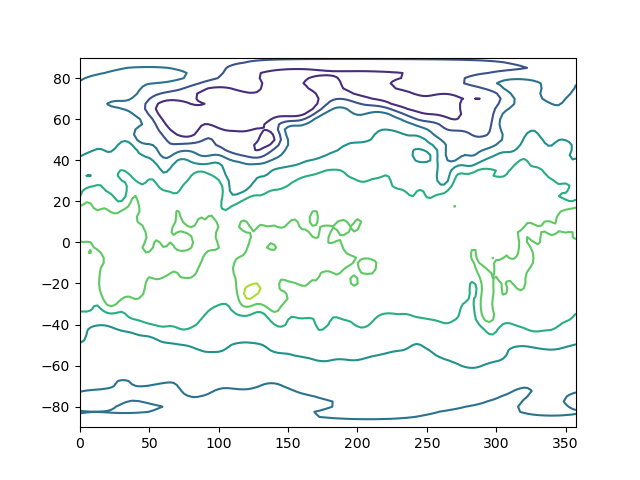
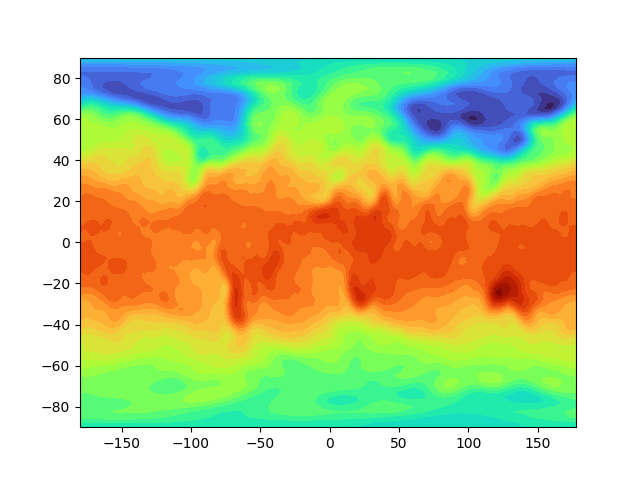
almost done p4

diff --git a/P4/p4_rubiomadrigalcelia.py b/P4/p4_rubiomadrigalcelia.py
@@ -16,31 +16,63 @@ Referencias:
     
 """
 
+import math
 import datetime as dt  # Python standard library datetime  module
 import numpy as np
 import matplotlib.pyplot as plt
 from netCDF4 import Dataset
 from sklearn.decomposition import PCA
 
+LEV = 30
+import matplotlib.cm
+from matplotlib.colors import ListedColormap
+turbo_colormap_data = [[0.18995,0.07176,0.23217],[0.19483,0.08339,0.26149],[0.19956,0.09498,0.29024],[0.20415,0.10652,0.31844],[0.20860,0.11802,0.34607],[0.21291,0.12947,0.37314],[0.21708,0.14087,0.39964],[0.22111,0.15223,0.42558],[0.22500,0.16354,0.45096],[0.22875,0.17481,0.47578],[0.23236,0.18603,0.50004],[0.23582,0.19720,0.52373],[0.23915,0.20833,0.54686],[0.24234,0.21941,0.56942],[0.24539,0.23044,0.59142],[0.24830,0.24143,0.61286],[0.25107,0.25237,0.63374],[0.25369,0.26327,0.65406],[0.25618,0.27412,0.67381],[0.25853,0.28492,0.69300],[0.26074,0.29568,0.71162],[0.26280,0.30639,0.72968],[0.26473,0.31706,0.74718],[0.26652,0.32768,0.76412],[0.26816,0.33825,0.78050],[0.26967,0.34878,0.79631],[0.27103,0.35926,0.81156],[0.27226,0.36970,0.82624],[0.27334,0.38008,0.84037],[0.27429,0.39043,0.85393],[0.27509,0.40072,0.86692],[0.27576,0.41097,0.87936],[0.27628,0.42118,0.89123],[0.27667,0.43134,0.90254],[0.27691,0.44145,0.91328],[0.27701,0.45152,0.92347],[0.27698,0.46153,0.93309],[0.27680,0.47151,0.94214],[0.27648,0.48144,0.95064],[0.27603,0.49132,0.95857],[0.27543,0.50115,0.96594],[0.27469,0.51094,0.97275],[0.27381,0.52069,0.97899],[0.27273,0.53040,0.98461],[0.27106,0.54015,0.98930],[0.26878,0.54995,0.99303],[0.26592,0.55979,0.99583],[0.26252,0.56967,0.99773],[0.25862,0.57958,0.99876],[0.25425,0.58950,0.99896],[0.24946,0.59943,0.99835],[0.24427,0.60937,0.99697],[0.23874,0.61931,0.99485],[0.23288,0.62923,0.99202],[0.22676,0.63913,0.98851],[0.22039,0.64901,0.98436],[0.21382,0.65886,0.97959],[0.20708,0.66866,0.97423],[0.20021,0.67842,0.96833],[0.19326,0.68812,0.96190],[0.18625,0.69775,0.95498],[0.17923,0.70732,0.94761],[0.17223,0.71680,0.93981],[0.16529,0.72620,0.93161],[0.15844,0.73551,0.92305],[0.15173,0.74472,0.91416],[0.14519,0.75381,0.90496],[0.13886,0.76279,0.89550],[0.13278,0.77165,0.88580],[0.12698,0.78037,0.87590],[0.12151,0.78896,0.86581],[0.11639,0.79740,0.85559],[0.11167,0.80569,0.84525],[0.10738,0.81381,0.83484],[0.10357,0.82177,0.82437],[0.10026,0.82955,0.81389],[0.09750,0.83714,0.80342],[0.09532,0.84455,0.79299],[0.09377,0.85175,0.78264],[0.09287,0.85875,0.77240],[0.09267,0.86554,0.76230],[0.09320,0.87211,0.75237],[0.09451,0.87844,0.74265],[0.09662,0.88454,0.73316],[0.09958,0.89040,0.72393],[0.10342,0.89600,0.71500],[0.10815,0.90142,0.70599],[0.11374,0.90673,0.69651],[0.12014,0.91193,0.68660],[0.12733,0.91701,0.67627],[0.13526,0.92197,0.66556],[0.14391,0.92680,0.65448],[0.15323,0.93151,0.64308],[0.16319,0.93609,0.63137],[0.17377,0.94053,0.61938],[0.18491,0.94484,0.60713],[0.19659,0.94901,0.59466],[0.20877,0.95304,0.58199],[0.22142,0.95692,0.56914],[0.23449,0.96065,0.55614],[0.24797,0.96423,0.54303],[0.26180,0.96765,0.52981],[0.27597,0.97092,0.51653],[0.29042,0.97403,0.50321],[0.30513,0.97697,0.48987],[0.32006,0.97974,0.47654],[0.33517,0.98234,0.46325],[0.35043,0.98477,0.45002],[0.36581,0.98702,0.43688],[0.38127,0.98909,0.42386],[0.39678,0.99098,0.41098],[0.41229,0.99268,0.39826],[0.42778,0.99419,0.38575],[0.44321,0.99551,0.37345],[0.45854,0.99663,0.36140],[0.47375,0.99755,0.34963],[0.48879,0.99828,0.33816],[0.50362,0.99879,0.32701],[0.51822,0.99910,0.31622],[0.53255,0.99919,0.30581],[0.54658,0.99907,0.29581],[0.56026,0.99873,0.28623],[0.57357,0.99817,0.27712],[0.58646,0.99739,0.26849],[0.59891,0.99638,0.26038],[0.61088,0.99514,0.25280],[0.62233,0.99366,0.24579],[0.63323,0.99195,0.23937],[0.64362,0.98999,0.23356],[0.65394,0.98775,0.22835],[0.66428,0.98524,0.22370],[0.67462,0.98246,0.21960],[0.68494,0.97941,0.21602],[0.69525,0.97610,0.21294],[0.70553,0.97255,0.21032],[0.71577,0.96875,0.20815],[0.72596,0.96470,0.20640],[0.73610,0.96043,0.20504],[0.74617,0.95593,0.20406],[0.75617,0.95121,0.20343],[0.76608,0.94627,0.20311],[0.77591,0.94113,0.20310],[0.78563,0.93579,0.20336],[0.79524,0.93025,0.20386],[0.80473,0.92452,0.20459],[0.81410,0.91861,0.20552],[0.82333,0.91253,0.20663],[0.83241,0.90627,0.20788],[0.84133,0.89986,0.20926],[0.85010,0.89328,0.21074],[0.85868,0.88655,0.21230],[0.86709,0.87968,0.21391],[0.87530,0.87267,0.21555],[0.88331,0.86553,0.21719],[0.89112,0.85826,0.21880],[0.89870,0.85087,0.22038],[0.90605,0.84337,0.22188],[0.91317,0.83576,0.22328],[0.92004,0.82806,0.22456],[0.92666,0.82025,0.22570],[0.93301,0.81236,0.22667],[0.93909,0.80439,0.22744],[0.94489,0.79634,0.22800],[0.95039,0.78823,0.22831],[0.95560,0.78005,0.22836],[0.96049,0.77181,0.22811],[0.96507,0.76352,0.22754],[0.96931,0.75519,0.22663],[0.97323,0.74682,0.22536],[0.97679,0.73842,0.22369],[0.98000,0.73000,0.22161],[0.98289,0.72140,0.21918],[0.98549,0.71250,0.21650],[0.98781,0.70330,0.21358],[0.98986,0.69382,0.21043],[0.99163,0.68408,0.20706],[0.99314,0.67408,0.20348],[0.99438,0.66386,0.19971],[0.99535,0.65341,0.19577],[0.99607,0.64277,0.19165],[0.99654,0.63193,0.18738],[0.99675,0.62093,0.18297],[0.99672,0.60977,0.17842],[0.99644,0.59846,0.17376],[0.99593,0.58703,0.16899],[0.99517,0.57549,0.16412],[0.99419,0.56386,0.15918],[0.99297,0.55214,0.15417],[0.99153,0.54036,0.14910],[0.98987,0.52854,0.14398],[0.98799,0.51667,0.13883],[0.98590,0.50479,0.13367],[0.98360,0.49291,0.12849],[0.98108,0.48104,0.12332],[0.97837,0.46920,0.11817],[0.97545,0.45740,0.11305],[0.97234,0.44565,0.10797],[0.96904,0.43399,0.10294],[0.96555,0.42241,0.09798],[0.96187,0.41093,0.09310],[0.95801,0.39958,0.08831],[0.95398,0.38836,0.08362],[0.94977,0.37729,0.07905],[0.94538,0.36638,0.07461],[0.94084,0.35566,0.07031],[0.93612,0.34513,0.06616],[0.93125,0.33482,0.06218],[0.92623,0.32473,0.05837],[0.92105,0.31489,0.05475],[0.91572,0.30530,0.05134],[0.91024,0.29599,0.04814],[0.90463,0.28696,0.04516],[0.89888,0.27824,0.04243],[0.89298,0.26981,0.03993],[0.88691,0.26152,0.03753],[0.88066,0.25334,0.03521],[0.87422,0.24526,0.03297],[0.86760,0.23730,0.03082],[0.86079,0.22945,0.02875],[0.85380,0.22170,0.02677],[0.84662,0.21407,0.02487],[0.83926,0.20654,0.02305],[0.83172,0.19912,0.02131],[0.82399,0.19182,0.01966],[0.81608,0.18462,0.01809],[0.80799,0.17753,0.01660],[0.79971,0.17055,0.01520],[0.79125,0.16368,0.01387],[0.78260,0.15693,0.01264],[0.77377,0.15028,0.01148],[0.76476,0.14374,0.01041],[0.75556,0.13731,0.00942],[0.74617,0.13098,0.00851],[0.73661,0.12477,0.00769],[0.72686,0.11867,0.00695],[0.71692,0.11268,0.00629],[0.70680,0.10680,0.00571],[0.69650,0.10102,0.00522],[0.68602,0.09536,0.00481],[0.67535,0.08980,0.00449],[0.66449,0.08436,0.00424],[0.65345,0.07902,0.00408],[0.64223,0.07380,0.00401],[0.63082,0.06868,0.00401],[0.61923,0.06367,0.00410],[0.60746,0.05878,0.00427],[0.59550,0.05399,0.00453],[0.58336,0.04931,0.00486],[0.57103,0.04474,0.00529],[0.55852,0.04028,0.00579],[0.54583,0.03593,0.00638],[0.53295,0.03169,0.00705],[0.51989,0.02756,0.00780],[0.50664,0.02354,0.00863],[0.49321,0.01963,0.00955],[0.47960,0.01583,0.01055]]
+matplotlib.cm.register_cmap('turbo', cmap=ListedColormap(turbo_colormap_data))
+CMAP = "turbo"
+
+
 f = Dataset("air.2021.nc", "r", format="NETCDF4")
-level = f.variables['level'][:].copy()
-lats = f.variables['lat'][:].copy()
-lons = f.variables['lon'][:].copy()
-air21 = f.variables['air'][:].copy()
+level = f.variables["level"][:].copy()
+lats = f.variables["lat"][:].copy()
+lons = f.variables["lon"][:].copy()
+air21 = f.variables["air"][:].copy()
 f.close()
 f = Dataset("hgt.2021.nc", "r", format="NETCDF4")
-time21 = f.variables['time'][:].copy()
-hgt21 = f.variables['hgt'][:].copy()
+time21 = f.variables["time"][:].copy()
+hgt21 = f.variables["hgt"][:].copy()
 f.close()
 
 
 f = Dataset("air.2022.nc", "r", format="NETCDF4")
-air22 = f.variables['air'][:].copy()
+air22 = f.variables["air"][:].copy()
 f.close()
 f = Dataset("hgt.2022.nc", "r", format="NETCDF4")
-time22 = f.variables['time'][:].copy()
-hgt22 = f.variables['hgt'][:].copy()
+time22 = f.variables["time"][:].copy()
+hgt22 = f.variables["hgt"][:].copy()
 f.close()
+
+# Cambio de coordenadas
+
+air21[:, :, :, lons >= 180], air21[:, :, :, lons < 180] = (
+    air21[:, :, :, lons < 180],
+    air21[:, :, :, lons >= 180],
+)
+air22[:, :, :, lons >= 180], air22[:, :, :, lons < 180] = (
+    air22[:, :, :, lons < 180],
+    air22[:, :, :, lons >= 180],
+)
+hgt21[:, :, :, lons >= 180], hgt21[:, :, :, lons < 180] = (
+    hgt21[:, :, :, lons < 180],
+    hgt21[:, :, :, lons >= 180],
+)
+hgt22[:, :, :, lons >= 180], hgt22[:, :, :, lons < 180] = (
+    hgt22[:, :, :, lons < 180],
+    hgt22[:, :, :, lons >= 180],
+)
+
+lons = np.roll(lons, len(lons[lons < 180]))
+lons[lons >= 180] -= 360
+
 
 """ Apartado i) """
 
@@ -48,33 +80,27 @@ f.close()
 """
 Distribución espacial de la temperatura en el nivel de 500hPa, para el primer día
 """
-plt.contour(lons, lats, air21[0,0,:,:])
+plt.contourf(lons, lats, air21[0, 0, :, :], cmap=CMAP, levels=LEV)
 plt.savefig("1")
 
-hgt21b = hgt21[:,level==500.,:,:].reshape(len(time21),len(lats)*len(lons))
-n_components=4
+hgt21b = hgt21[:, level == 500.0, :, :].reshape(len(time21), len(lats) * len(lons))
+n_components = 4
 
 
 Y = hgt21b.transpose()
 pca = PCA(n_components=n_components)
 
-pca.fit(Y)
-print(pca.explained_variance_ratio_)
-out = pca.singular_values_
-
 Element_pca0 = pca.fit_transform(Y)
-Element_pca0 = Element_pca0.transpose(1,0).reshape(n_components,len(lats),len(lons))
+Element_pca0 = Element_pca0.transpose(1, 0).reshape(n_components, len(lats), len(lons))
 print(pca.explained_variance_ratio_)
 
 fig = plt.figure()
 fig.subplots_adjust(hspace=0.4, wspace=0.4)
 for i in range(4):
-    ax = fig.add_subplot(2, 2, i+1)
-    ax.text(0.5, 90, 'PCA-'+str(i), fontsize=18, ha='center')
-    plt.contour(lons, lats, Element_pca0[i,:,:])
+    ax = fig.add_subplot(2, 2, i + 1)
+    ax.text(0.5, 90, "PCA-" + str(i), fontsize=15, ha="center")
+    plt.contourf(lons, lats, Element_pca0[i, :, :], cmap=CMAP, levels=LEV)
 plt.savefig("2")
-
-
 
 
 """ Apartado ii) """
@@ -82,10 +108,64 @@ plt.savefig("2")
 
 dt_time21 = np.array([dt.date(1800, 1, 1) + dt.timedelta(hours=t) for t in time21])
 dt_time22 = np.array([dt.date(1800, 1, 1) + dt.timedelta(hours=t) for t in time22])
-dia0 = dt.date(2022, 1, 11)
-hgtc = np.ma.masked_where(((lats > 20) & (lats < -20), hgt22))
-hgt0 = hgt22[dt_time22==dia0,:,:,:][0]
-air0 = air22[dt_time22==dia0,:,:,:][0]
-[ l>-20 and l>20 for l in lats],[ l>30 and l<50 for l in lons]
 
-distancias = [ np.norm() ]
+lats_logic = np.logical_and(lats > 30, lats < 50)
+lons_logic = np.logical_and(lons > -20, lons < 20)
+
+hgt_sub = hgt21[:, :, lats_logic, :][:, :, :, lons_logic]
+air_sub = air21[:, :, lats_logic, :][:, :, :, lons_logic]
+lats_sub = lats[lats_logic]
+lons_sub = lons[lons_logic]
+
+dia_0 = dt.date(2022, 1, 11)
+hgt_0 = hgt22[dt_time22 == dia_0, :, :, :][0][:, lats_logic, :][:, :, lons_logic]
+air_0 = air22[dt_time22 == dia_0, :, :, :][0][:, lats_logic, :][:, :, lons_logic]
+
+
+def dist_analogia(u, v):
+    w = u - v
+    a, b, c = w.shape
+    total = 0
+    for i, p in enumerate(level):
+        wk = 0.5 if p == 500.0 or p == 1000.0 else 0
+        if wk == 0:
+            continue
+        for j in range(b):
+            for k in range(c):
+                total += (w[i, j, k] ** 2) * wk
+    return math.sqrt(total)
+
+
+distancias = [
+    (dist_analogia(hgt_0, hgt_sub[dt_time21 == d, :, :, :][0]), d) for d in dt_time21
+]
+distancias.sort()
+top4 = [d for _, d in distancias[:4]]
+hgt_1 = sum(np.array([hgt_sub[dt_time21==d,:,:,:][0] for d in top4 ]))/4
+air_1 = sum([air_sub[dt_time21==d,:,:,:][0] for d in top4 ])/4
+
+
+fig = plt.figure()
+fig.subplots_adjust(hspace=0.4, wspace=0.4)
+
+ax = fig.add_subplot(2, 2, 1)
+ax.text(0.5, 90, "Observación HGT", fontsize=15, ha="center")
+plotted = hgt_0[level==500.,:,:]
+plt.contourf(lons_sub, lats_sub, plotted[0], cmap=CMAP, levels=LEV)
+
+ax = fig.add_subplot(2, 2, 2)
+ax.text(0.5, 90, "HGT-media", fontsize=15, ha="center")
+plotted = hgt_1[level==500.,:,:]
+plt.contourf(lons_sub, lats_sub, plotted[0], cmap=CMAP, levels=LEV)
+
+ax = fig.add_subplot(2, 2, 3)
+ax.text(0.5, 90, "Observación AIR", fontsize=15, ha="center")
+plotted = air_0[level==1000.,:,:]
+plt.contourf(lons_sub, lats_sub, plotted[0], cmap=CMAP, levels=LEV)
+
+ax = fig.add_subplot(2, 2, 4)
+ax.text(0.5, 90, "AIR-media", fontsize=15, ha="center")
+plotted = air_1[level==1000.,:,:]
+plt.contourf(lons_sub, lats_sub, plotted[0], cmap=CMAP, levels=LEV)
+
+plt.savefig("3")
